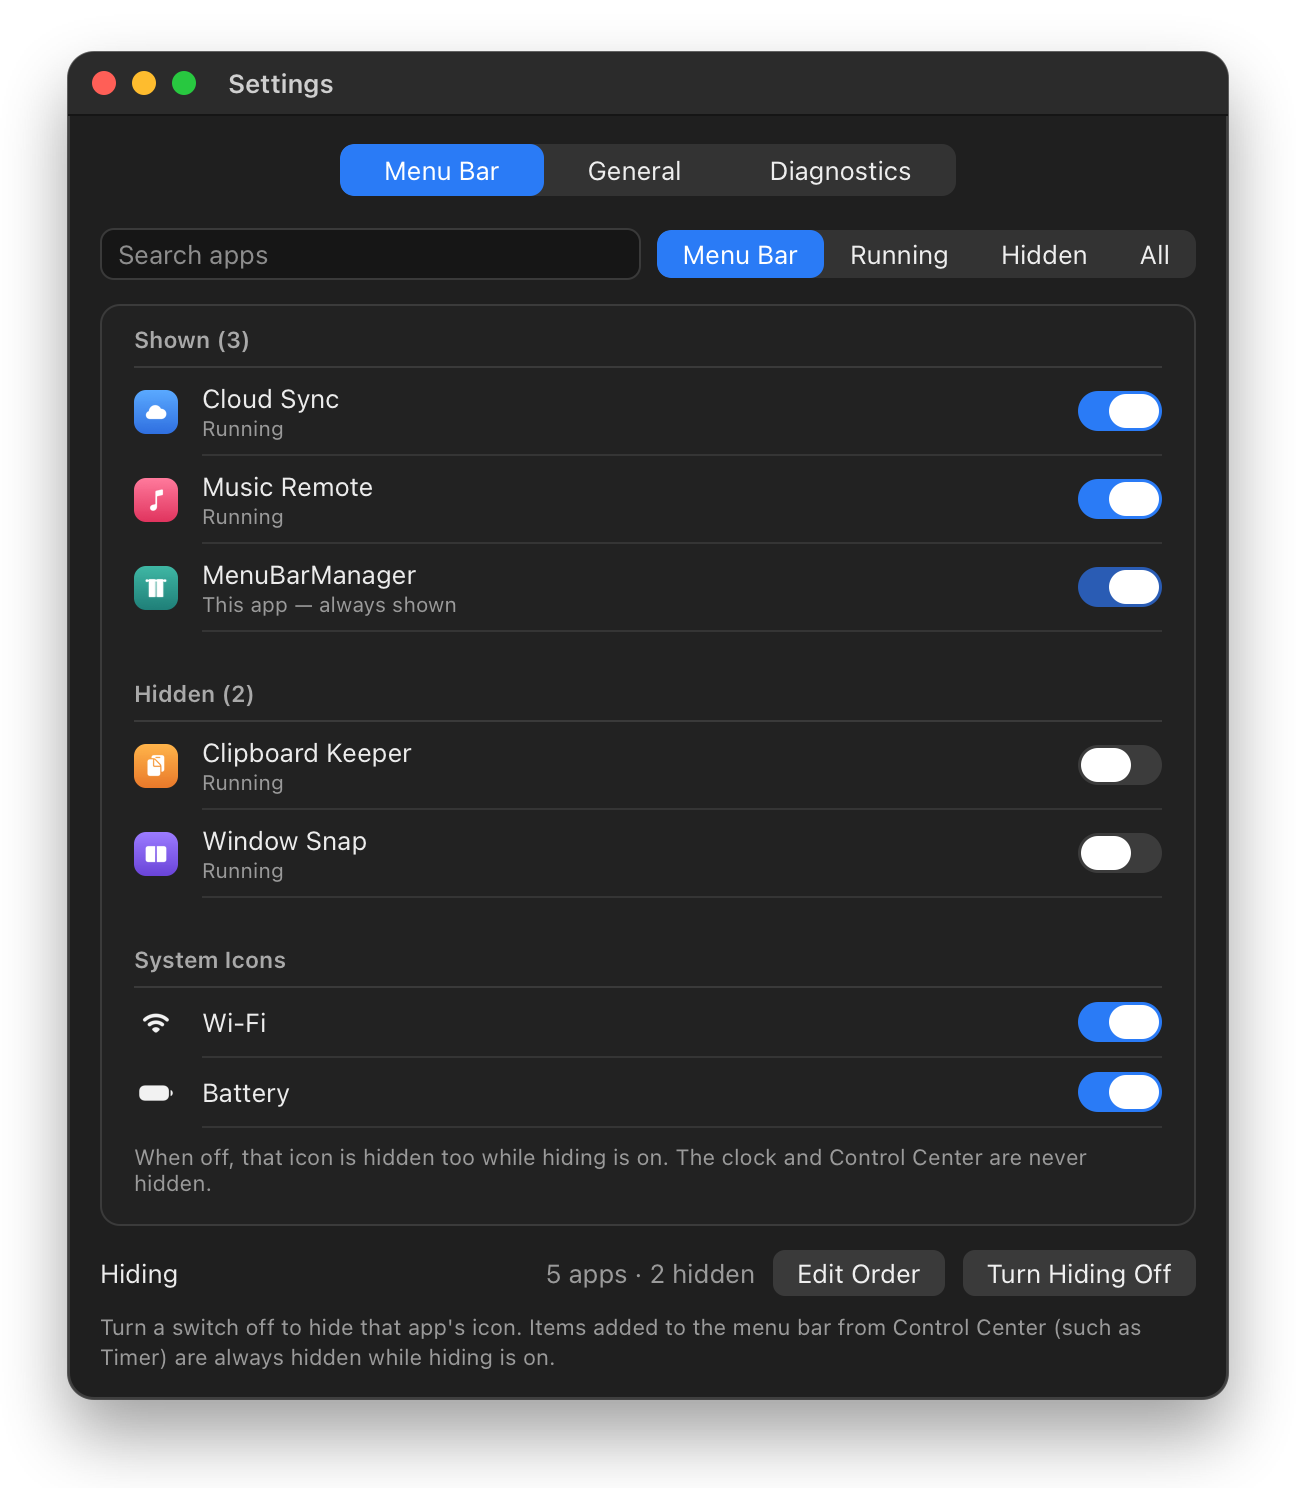
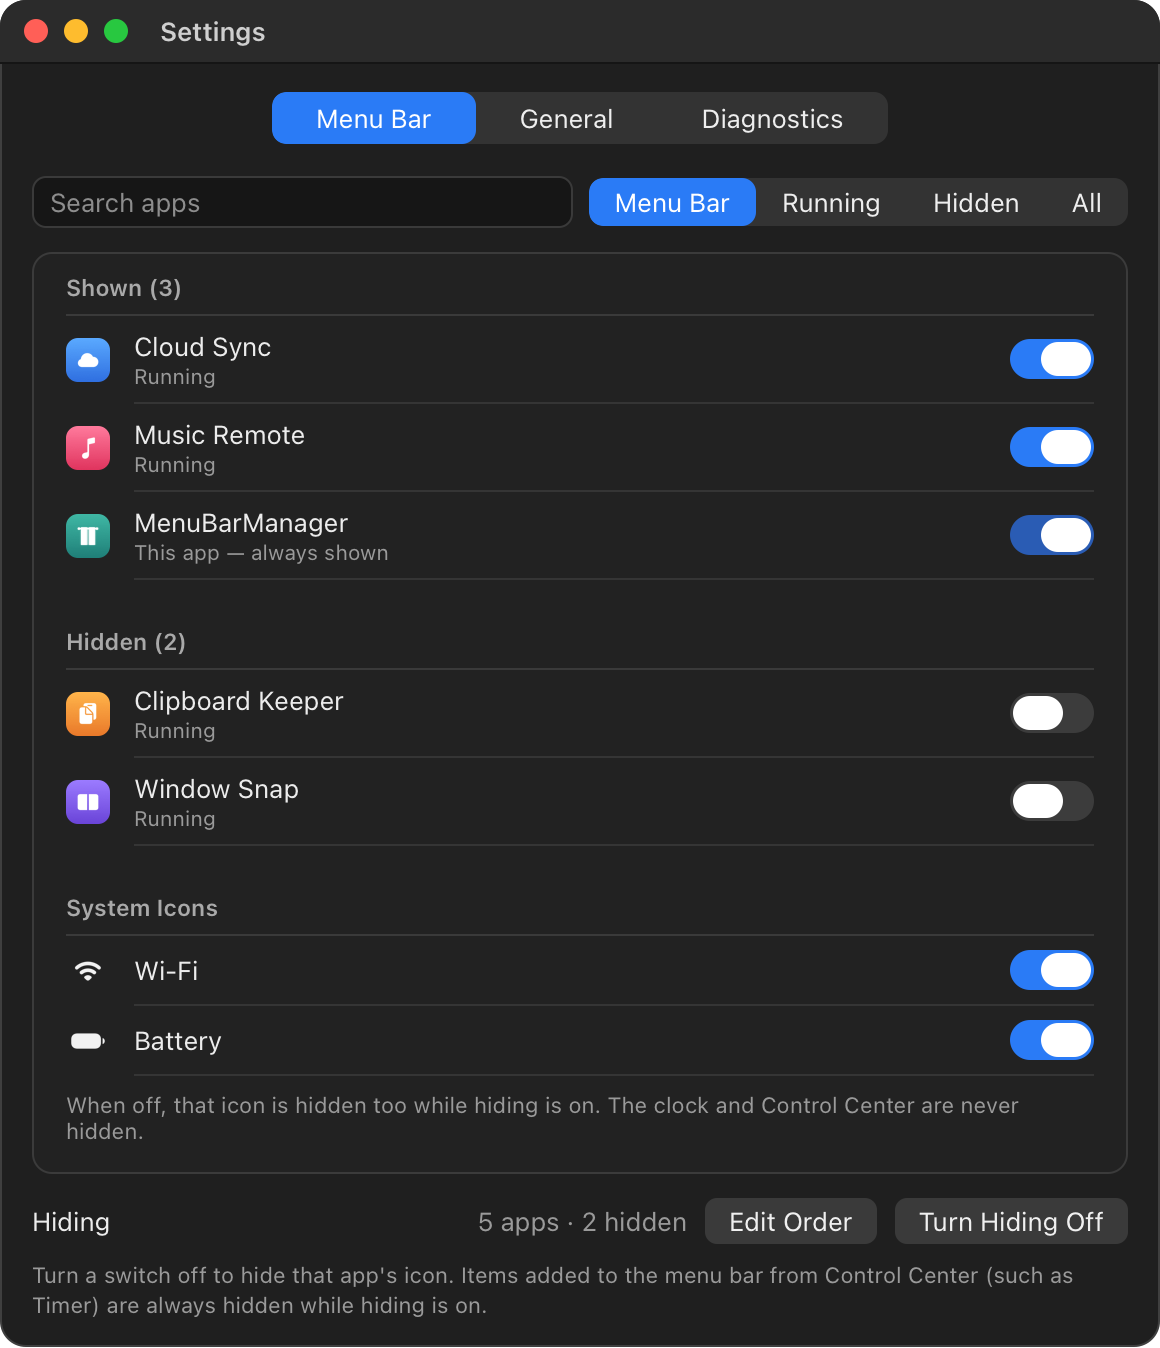
README: 좁은 화면에서 우클릭 메뉴 그림이 사라지던 표를 고치고 설정 그림 크기를 맞춤
- 그림이 든 표 칸에 너비를 지정 (칸이 0으로 줄어 그림이 보이지 않았음)
- 설정 그림 두 장을 위쪽 맞춤 HTML 표로 바꾸고, 예시 그림을 실제 캡처와 같은 크기로 다시 생성

Changed region(s): [[0.0, 0.0, 1.0, 1.0], [0.7759, 0.1246, 0.869, 0.1869], [0.869, 0.1558, 0.9, 0.1869]]

diff --git a/scripts/readme-images/gen.py b/scripts/readme-images/gen.py
@@ -60,9 +60,8 @@ T = {
             note='스위치를 끄면 그 앱의 아이콘이 숨겨집니다. 제어 센터에서 메뉴바로 꺼낸 항목(타이머 등)은 숨김 중에는 항상 숨겨집니다.'),
 }
 set_css = '''
-body{padding:26px 34px 44px}
 .win{width:580px;border-radius:13px;background:#1f1f1f;color:#ececec;overflow:hidden;
-  box-shadow:0 0 0 1px rgba(255,255,255,.14) inset,0 0 0 .5px rgba(0,0,0,.6),0 18px 40px rgba(0,0,0,.38);font-size:13px}
+  box-shadow:0 0 0 1px rgba(255,255,255,.14) inset;font-size:13px}
 .tb{height:32px;background:#2b2b2b;border-bottom:1px solid #151515;display:flex;align-items:center;padding:0 12px;gap:8px}
 .tl{width:12px;height:12px;border-radius:50%}
 .tb b{margin-left:8px;font-weight:600;color:#cfcfcf;font-size:13px}

diff --git a/README_KR.md b/README_KR.md
@@ -86,17 +86,24 @@ flowchart LR
 | **지정한 단축키** | 펼치기 / 숨기기, 또는 설정 열기 |
 
 </td>
-<td>
-<img src="docs/images/menu-ko.png" alt="우클릭 메뉴" width="250">
+<td width="270" align="center">
+<img src="docs/images/menu-ko.png" alt="우클릭 메뉴" width="240">
 </td>
 </tr>
 </table>
 
 ## 설정 한눈에 보기
 
-| 메뉴바 관리 — 숨길 앱 고르기 | 일반 — 옵션 |
-|:---:|:---:|
-| <img src="docs/images/settings-menubar-ko.png" alt="메뉴바 관리 탭 (예시 앱으로 그린 그림)" width="400"> | <img src="docs/images/settings-general-ko.png" alt="일반 탭" width="400"> |
+<table>
+<tr>
+<th width="50%">메뉴바 관리 — 숨길 앱 고르기</th>
+<th width="50%">일반 — 옵션</th>
+</tr>
+<tr>
+<td valign="top" align="center"><img src="docs/images/settings-menubar-ko.png" alt="메뉴바 관리 탭 (예시 앱으로 그린 그림)" width="400"></td>
+<td valign="top" align="center"><img src="docs/images/settings-general-ko.png" alt="일반 탭" width="400"></td>
+</tr>
+</table>
 
 | 탭 | 할 수 있는 일 |
 |---|---|

diff --git a/README_CN.md b/README_CN.md
@@ -86,17 +86,24 @@ flowchart LR
 | **自定义快捷键** | 展开 / 隐藏，或打开设置 |
 
 </td>
-<td>
-<img src="docs/images/menu-en.png" alt="右键菜单" width="250">
+<td width="270" align="center">
+<img src="docs/images/menu-en.png" alt="右键菜单" width="240">
 </td>
 </tr>
 </table>
 
 ## 设置一览
 
-| Menu Bar — 选择要隐藏的图标 | General — 选项 |
-|:---:|:---:|
-| <img src="docs/images/settings-menubar-en.png" alt="Menu Bar 标签页（用示例 App 绘制的示意图）" width="400"> | <img src="docs/images/settings-general-en.png" alt="General 标签页" width="400"> |
+<table>
+<tr>
+<th width="50%">Menu Bar — 选择要隐藏的图标</th>
+<th width="50%">General — 选项</th>
+</tr>
+<tr>
+<td valign="top" align="center"><img src="docs/images/settings-menubar-en.png" alt="Menu Bar 标签页（用示例 App 绘制的示意图）" width="400"></td>
+<td valign="top" align="center"><img src="docs/images/settings-general-en.png" alt="General 标签页" width="400"></td>
+</tr>
+</table>
 
 | 标签页 | 可以做什么 |
 |---|---|

diff --git a/README.md b/README.md
@@ -86,17 +86,24 @@ flowchart LR
 | **Your shortcut** | Expand / hide, or open Settings |
 
 </td>
-<td>
-<img src="docs/images/menu-en.png" alt="Right-click menu" width="250">
+<td width="270" align="center">
+<img src="docs/images/menu-en.png" alt="Right-click menu" width="240">
 </td>
 </tr>
 </table>
 
 ## Settings at a glance
 
-| Menu Bar — choose what to hide | General — options |
-|:---:|:---:|
-| <img src="docs/images/settings-menubar-en.png" alt="Menu Bar tab (illustration with sample apps)" width="400"> | <img src="docs/images/settings-general-en.png" alt="General tab" width="400"> |
+<table>
+<tr>
+<th width="50%">Menu Bar — choose what to hide</th>
+<th width="50%">General — options</th>
+</tr>
+<tr>
+<td valign="top" align="center"><img src="docs/images/settings-menubar-en.png" alt="Menu Bar tab (illustration with sample apps)" width="400"></td>
+<td valign="top" align="center"><img src="docs/images/settings-general-en.png" alt="General tab" width="400"></td>
+</tr>
+</table>
 
 | Tab | What you can do |
 |---|---|
